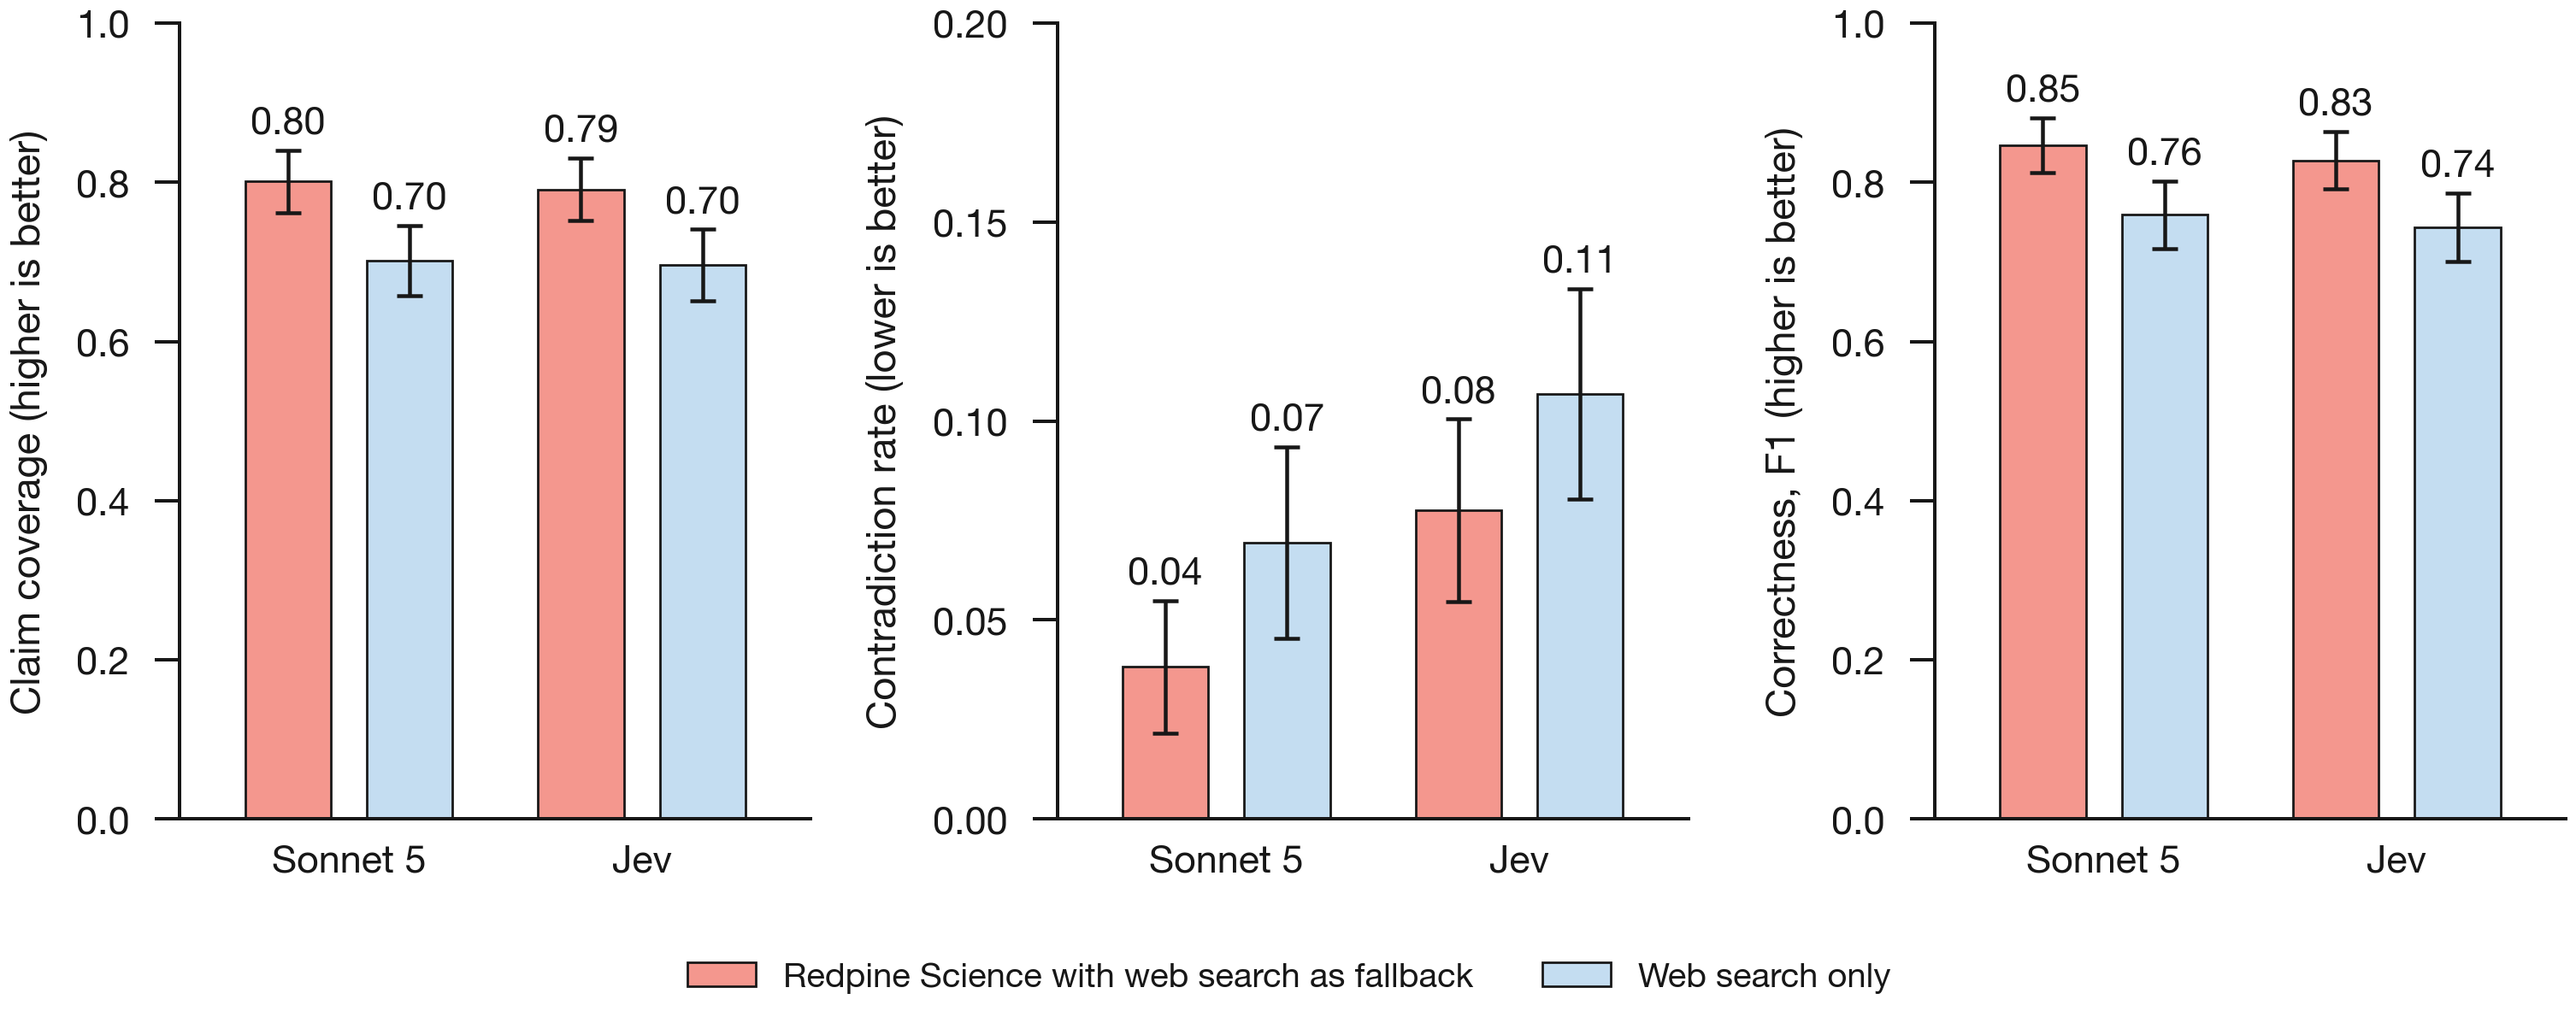
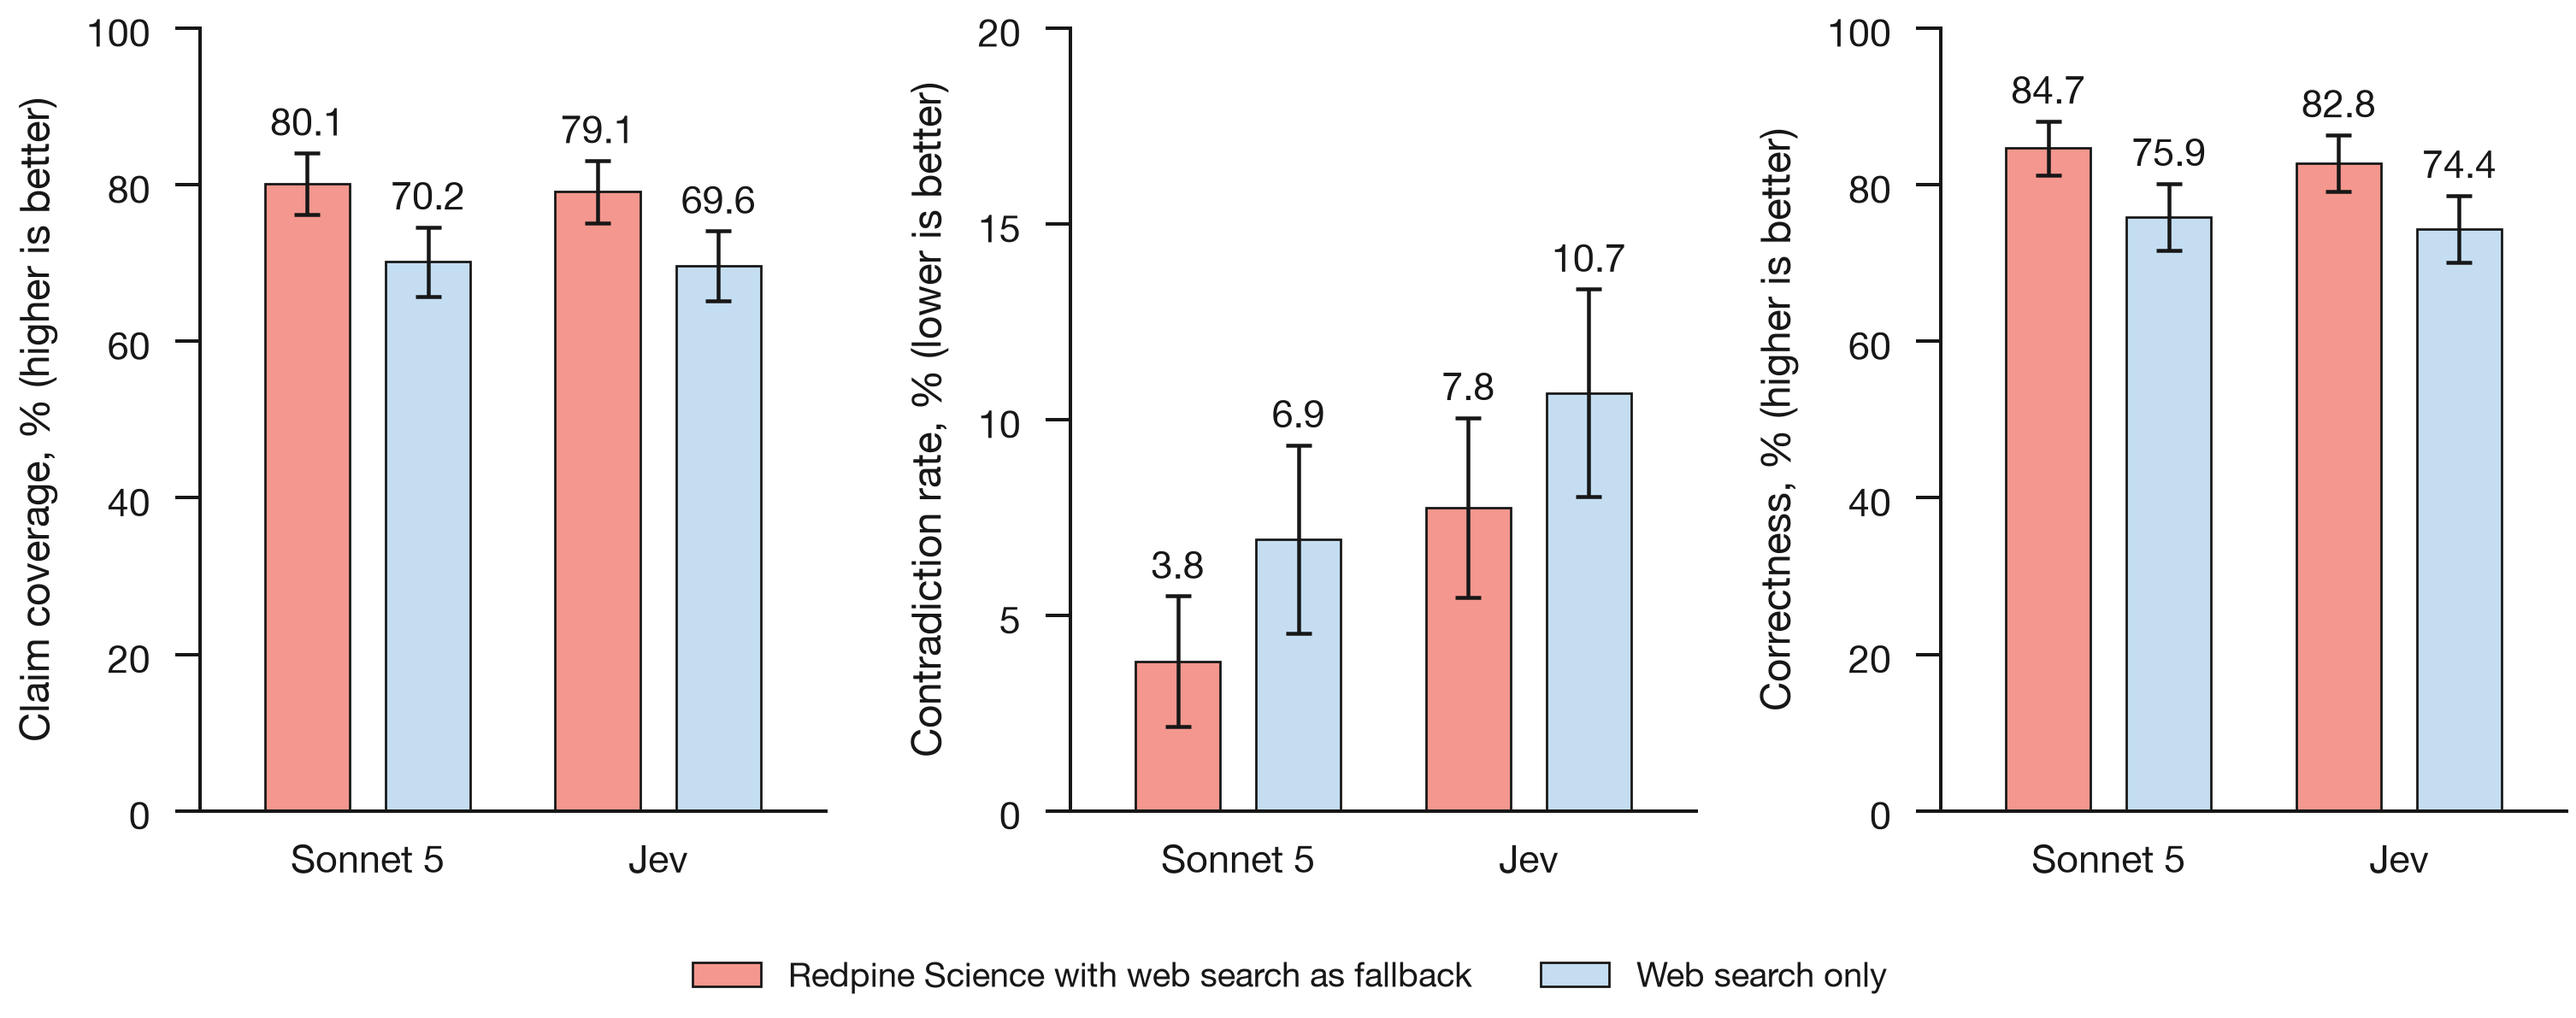
docs(report): report every share in percent and every difference in points
Shares and rates (coverage, contradiction rate, correctness, recall,
precision, expert agreement) are now percentages with one decimal, and
every arm or judge difference is in percentage points, in the text, the
two quadrant-two tables and the captions. The gold thresholds in the
quadrant-two method follow the same rule. Quantities that are not
shares (nDCG, DCG@5, alpha, kappa, ICC, mean relevance, p-values) and
the correctness definition with its worked example keep their scale.
The quadrant-two figure is regenerated on a percent axis so its labels
match the text. Also merges the three short judging-panel paragraphs
in the quadrant-four method into one.

diff --git a/main.tex b/main.tex
@@ -265,9 +265,9 @@ the paper after repair, and the mechanical check all pass.
 The last step measures the gold before an expert sees it. Three test answers are
 generated for each question: one that read the paper, one that read a different but
 valid source, and one with no retrieval. Each is graded twice for how much of the gold
-it covers, a coverage score from 0 to 1, and the three scores travel with the question.
-A gold on which the paper-informed answer scores below 0.75, or the retrieval-free
-answer 0.5 or above, is flagged for the expert: the first rewards one paper's phrasing,
+it covers, a coverage score in percent, and the three scores travel with the question.
+A gold on which the paper-informed answer scores below 75\%, or the retrieval-free
+answer 50\% or above, is flagged for the expert: the first rewards one paper's phrasing,
 the second can be satisfied from memory. The same three answers later guard every edit
 to a gold.
 
@@ -277,8 +277,9 @@ it. For each question the expert marked good, edit or bad, could rewrite the que
 and could comment. A suggested rewrite is applied once a check confirms that the gold still
 answers it. A change to a gold is accepted only if the three test answers, regraded
 against the new gold, keep their coverage scores: the paper-informed answer's score stays
-at or above 0.85 and drops by at most 0.05, the other-source answer's score drops by at
-most 0.05, the retrieval-free answer's score rises by at most 0.05, and no test answer
+at or above 85\% and drops by at most 5 points, the other-source answer's score drops by
+at most 5 points, the retrieval-free answer's score rises by at most 5 points, and no
+test answer
 newly contradicts the gold. When either check fails, the
 generated version stays and the failed edit is recorded with the reason: a rewrite that
 widens the question past what the gold answers, or a gold edit that lets the
@@ -311,7 +312,8 @@ and contradicts $c$, coverage is $C = s/n$, the contradiction rate is $K = c/n$,
 %
 the harmonic mean of the share of claims stated and the share not contradicted. An
 answer that states every claim and contradicts none scores 1; one that states half the
-claims and contradicts the rest scores 0.5. The bottom panel of Figure~\ref{fig:q2-example}
+claims and contradicts the rest scores 0.5. Correctness is reported as a percentage
+below. The bottom panel of Figure~\ref{fig:q2-example}
 shows the judge's verdicts on one answer and the scores they give. The judge reads the
 answer as written, citations included. Scores that compare an answer
 with its own retrieved text (groundedness, faithfulness, contextual recall and relevancy,
@@ -438,20 +440,15 @@ reading. URL, DOI and publication date are removed from every result before a ju
 reads it, since a database record and a scraped web page format these differently
 enough to identify the source.
 
-Three PhD-level domain experts are the judges. Each scores a batch of 30 subspecialty
-questions that require domain knowledge to evaluate the results, not only to answer:
-one batch is mostly neurology, with a handful of adjacent critical care, immunology,
-microbiology, and pharmacology questions; one is entirely cardiology; one is entirely
-rheumatology. These three batches do not overlap and each is judged by a single
-panelist, for breadth across subspecialties.
-
-A second pool of 25 questions is judged by two panelists against the same
-blinded result set, to measure inter-rater agreement. Per-item scores are averaged
-across the two judges before pooling, so a question in this pool contributes one data
-point, not two.
-
-The full panel is 115 questions: 90 domain-specific, 30 from each of the three
-subspecialists, plus the 25 from this second pool.
+Three PhD-level domain experts are the judges, and the panel holds 115 questions in
+two pools. The first pool is 90 subspecialty questions that require domain knowledge
+to evaluate the results, not only to answer, in three non-overlapping batches of 30,
+each judged by one panelist for breadth across subspecialties: one batch is mostly
+neurology, with a handful of adjacent critical care, immunology, microbiology and
+pharmacology questions; one is entirely cardiology; one is entirely rheumatology. The
+second pool is 25 questions judged by two panelists against the same blinded result
+set, to measure inter-rater agreement; per-item scores are averaged across the two
+judges before pooling, so each of these questions contributes one data point, not two.
 
 \section{Results}\label{sec:results}
 
@@ -476,7 +473,7 @@ This quadrant tests whether access to Redpine Science changes an agent's answer
 accuracy on a public, claim-verification benchmark. Figure~\ref{fig:scifact-arms}
 shows the result. An agent with Redpine Science answers
 94.4\% of the claims correctly, against 87.6\% for the same agent with no
-retrieval: 6.8 percentage points more, or 7.8\% more claims right, averaged over
+retrieval: 6.8 points more, or 7.8\% more claims right, averaged over
 the five runs and positive in each of them. Web search scores 93.1\%, and Redpine
 Science with web search as fallback 93.9\%.
 
@@ -504,7 +501,7 @@ memory, and quadrants three and four measure the retrieved papers directly.
 \end{figure}
 
 \begin{table}[htbp]
-\caption{Claim coverage difference, Redpine Science with web search as fallback minus web search
+\caption{Claim coverage difference in percentage points, Redpine Science with web search as fallback minus web search
 only, by track, by access class of the source paper, and by judge. Paired 95\% t intervals;
 n is the number of questions.}
 \label{tab:quadrant-two-tracks}
@@ -512,13 +509,13 @@ n is the number of questions.}
 \toprule
 \textbf{Track} & \textbf{n} & \textbf{Sonnet 5} & \textbf{Jev} \\
 \midrule
-Cardiology      & 79 & $+0.075$ $[+0.014, +0.136]$ & $+0.052$ $[-0.001, +0.106]$ \\
-Neuroimmunology & 60 & $+0.125$ $[+0.054, +0.196]$ & $+0.114$ $[+0.042, +0.186]$ \\
-Sepsis          & 20 & $+0.188$ $[+0.002, +0.373]$ & $+0.221$ $[+0.073, +0.369]$ \\
-Immunology      & 20 & $+0.033$ $[-0.072, +0.139]$ & $+0.081$ $[-0.022, +0.184]$ \\
+Cardiology      & 79 & $+7.5$ $[+1.4, +13.6]$ & $+5.2$ $[-0.1, +10.6]$ \\
+Neuroimmunology & 60 & $+12.5$ $[+5.4, +19.6]$ & $+11.4$ $[+4.2, +18.6]$ \\
+Sepsis          & 20 & $+18.8$ $[+0.2, +37.3]$ & $+22.1$ $[+7.3, +36.9]$ \\
+Immunology      & 20 & $+3.3$ $[-7.2, +13.9]$ & $+8.1$ $[-2.2, +18.4]$ \\
 \midrule
-Open access     & 105 & $+0.067$ $[+0.017, +0.116]$ & $+0.051$ $[+0.003, +0.099]$ \\
-Paywalled       & 74 & $+0.146$ $[+0.072, +0.221]$ & $+0.158$ $[+0.094, +0.221]$ \\
+Open access     & 105 & $+6.7$ $[+1.7, +11.6]$ & $+5.1$ $[+0.3, +9.9]$ \\
+Paywalled       & 74 & $+14.6$ $[+7.2, +22.1]$ & $+15.8$ $[+9.4, +22.1]$ \\
 \bottomrule
 \end{tabular}
 \end{table}
@@ -528,20 +525,20 @@ an agent with web search alone against the same agent with Redpine Science added
 Figure~\ref{fig:quadrant2-metrics} shows the three metrics of
 Section~\ref{sec:method-quadrant-two} by arm. Under the primary judge, the arm
 with Redpine Science states 80.1\% of the gold claims against 70.2\% for web
-search alone, a paired difference of $+0.100$ (95\% interval $+0.058$ to $+0.142$,
+search alone, a paired difference of $+10.0$ points (95\% interval $+5.8$ to $+14.2$,
 paired t $p = 6\times10^{-6}$, n = 179). It contradicts fewer claims, 3.8\% against
-6.9\%, a difference of $-0.031$ ($-0.055$ to $-0.008$, $p = 0.01$). Correctness,
-the harmonic mean of the two, is 0.847 against 0.759, a difference of $+0.088$ ($+0.049$ to $+0.127$,
+6.9\%, a difference of $-3.1$ points ($-5.5$ to $-0.8$, $p = 0.01$). Correctness,
+the harmonic mean of the two, is 84.7\% against 75.9\%, a difference of $+8.8$ points ($+4.9$ to $+12.7$,
 $p = 2\times10^{-5}$). Per question, the Redpine Science arm covers more claims on 62
 questions, fewer on 22, and the same number on 95. Half the questions are answered
 equally well by both arms; the gain sits in the other half.
 
 Jev gives the same picture. Under Jev the coverage difference is
-$+0.095$ ($+0.056$ to $+0.134$, $p = 3\times10^{-6}$), the contradiction difference
-$-0.029$ ($-0.056$ to $-0.002$, $p = 0.03$) and the correctness difference $+0.084$
-($+0.048$ to $+0.121$, $p = 1\times10^{-5}$), with 62 questions won, 21 lost and 96 tied.
+$+9.5$ points ($+5.6$ to $+13.4$, $p = 3\times10^{-6}$), the contradiction difference
+$-2.9$ points ($-5.6$ to $-0.2$, $p = 0.03$) and the correctness difference $+8.4$ points
+($+4.8$ to $+12.1$, $p = 1\times10^{-5}$), with 62 questions won, 21 lost and 96 tied.
 Paired per question, the coverage differences under Jev and under Sonnet 5 differ by
-0.002 on a standard error of 0.015. Jev scores both arms lower on the absolute scale,
+0.2 points on a standard error of 1.5 points. Jev scores both arms lower on the absolute scale,
 mostly because it labels about twice as many claims contradicted (7.8\% against
 3.8\% on the Redpine Science arm), but the gap between the arms does not move.
 Contradiction is rare under either judge: at most 10.7\% of claims on either arm.
@@ -557,12 +554,12 @@ under at least one judge.
 
 The same table splits the difference by the access class of the source paper. On the
 74 questions whose paper is paywalled, the Redpine Science arm states 84.9\% of the
-gold claims against 70.3\% for web search alone, a difference of $+0.146$ ($+0.072$ to
-$+0.221$, $p = 2\times10^{-4}$, n = 74). On the 105 questions whose paper is open access
-the difference is $+0.067$ ($+0.017$ to $+0.116$, $p = 0.009$, n = 105), from 76.7\%
+gold claims against 70.3\% for web search alone, a difference of $+14.6$ points ($+7.2$ to
+$+22.1$, $p = 2\times10^{-4}$, n = 74). On the 105 questions whose paper is open access
+the difference is $+6.7$ points ($+1.7$ to $+11.6$, $p = 0.009$, n = 105), from 76.7\%
 against 70.1\%. Web search covers the two classes equally; the Redpine Science arm gains
-most where web search cannot read the paper. Jev gives the same split, $+0.158$ on the
-paywalled questions and $+0.051$ on the open-access ones. These are the judge's margins;
+most where web search cannot read the paper. Jev gives the same split, $+15.8$ points on the
+paywalled questions and $+5.1$ on the open-access ones. These are the judge's margins;
 the expert check follows.
 
 \begin{table}[htbp]
@@ -575,8 +572,8 @@ Intervals are 95\%: jackknife for alpha, bootstrap for the intraclass correlatio
 \toprule
  & \textbf{Sonnet 5} & \textbf{Jev} \\
 \midrule
-Agreement with the expert majority, 237 claim units & 0.86 & 0.82 \\
-Alt-test winning rate, $\epsilon = 0.2$ & 1.0 & 1.0 \\
+Agreement with the expert majority, 237 claim units & 86\% & 82\% \\
+Alt-test winning rate, $\epsilon = 0.2$ & 100\% & 100\% \\
 Mean Cohen's $\kappa$ against each expert (expert against expert: 0.53) & 0.58 & 0.54 \\
 ICC(2,1) against the leave-one-out consensus & 0.85 [0.76, 0.91] & 0.81 [0.71, 0.89] \\
 \midrule
@@ -606,13 +603,13 @@ own ceiling of 0.71; Jev's is 0.81. Sonnet 5 is ahead of Jev on every measure by
 small margin.
 
 The expert labels point the same way as the judge's. On the 22-question random core,
-where all experts labelled both arms, the expert-only coverage gain is $+0.251$ (95\%
-interval $+0.112$ to $+0.390$); that draw over-represents questions on which the judge saw
-a large gap ($+0.299$ against $+0.100$ on the frame), so the estimate for all 179 questions
-is prediction-powered inference with the design's sampling weights, $+0.156$ ($-0.024$ to
-$+0.336$), next to the judge's $+0.100$. Its interval is wide because the design placed only
+where all experts labelled both arms, the expert-only coverage gain is $+25.1$ points
+(95\% interval $+11.2$ to $+39.0$); that draw over-represents questions on which the judge saw
+a large gap ($+29.9$ against $+10.0$ points on the frame), so the estimate for all 179 questions
+is prediction-powered inference with the design's sampling weights, $+15.6$ points ($-2.4$ to
+$+33.6$), next to the judge's $+10.0$. Its interval is wide because the design placed only
 two labelled questions in the 88-question stratum where the judge saw no gap. The
-contradiction rate on the core moves the same way, $-0.043$ ($-0.140$ to $+0.054$). The
+contradiction rate on the core moves the same way, $-4.3$ points ($-14.0$ to $+5.4$). The
 expert labels agree with the judge on the direction of the gain; its size rests on the
 judge's 179-question estimate.
 
@@ -717,7 +714,7 @@ effects of retrieval and generation.
 
 On the expert-validated question set, an agent with Redpine Science states 80.1\% of
 the required claims against 70.2\% for an agent restricted to web search, a gain of
-10 points in claim coverage under the primary judge, expert labels on a blinded sample point the same way. On ScholarQABench
+10.0 points in claim coverage under the primary judge, expert labels on a blinded sample point the same way. On ScholarQABench
 SciFact, the agent answers 94.4\% of claims correctly with Redpine Science against
 87.6\% with no retrieval and 93.1\% with web search; every arm scores above 87\%, so a
 public benchmark of this kind leaves little room to measure retrieval, which is what the

diff --git a/figures/fig_quadrant2_metrics.py b/figures/fig_quadrant2_metrics.py
@@ -78,9 +78,9 @@ ARM_LABELS = {"web": "Web search only",
 LOCAL_COLORS = {"redpine_first": CRIMSON, "web": SKY_BLUE}
 
 METRICS = [
-    ("claim_coverage", "Claim coverage (higher is better)", (0, 1.0), [0, 0.2, 0.4, 0.6, 0.8, 1.0]),
-    ("contradiction_rate", "Contradiction rate (lower is better)", (0, 0.2), [0, 0.05, 0.10, 0.15, 0.20]),
-    ("correctness", "Correctness, F1 (higher is better)", (0, 1.0), [0, 0.2, 0.4, 0.6, 0.8, 1.0]),
+    ("claim_coverage", "Claim coverage, % (higher is better)", (0, 100), [0, 20, 40, 60, 80, 100]),
+    ("contradiction_rate", "Contradiction rate, % (lower is better)", (0, 20), [0, 5, 10, 15, 20]),
+    ("correctness", "Correctness, % (higher is better)", (0, 100), [0, 20, 40, 60, 80, 100]),
 ]
 
 BAR_WIDTH = 0.38
@@ -94,6 +94,7 @@ def _draw_panel(ax, metric, ylabel, ylim, yticks):
     for j, judge in enumerate(JUDGES):
         for k, arm in enumerate(ARMS):
             mean, half = DATA[judge][metric][arm]
+            mean, half = mean * 100, half * 100   # DATA holds proportions; the report is in percent
             xs.append(j * GROUP_GAP + (k - 0.5) * (BAR_WIDTH + PAIR_GAP))
             means.append(mean)
             errors.append(half)
@@ -106,7 +107,7 @@ def _draw_panel(ax, metric, ylabel, ylim, yticks):
     # Value above each bar, clear of its error bar.
     for bar, mean, half in zip(bars, means, errors):
         ax.text(bar.get_x() + bar.get_width() / 2, mean + half + 0.012 * ylim[1],
-                f"{mean:.2f}", ha="center", va="bottom", color=DARK_GREY,
+                f"{mean:.1f}", ha="center", va="bottom", color=DARK_GREY,
                 fontsize=BASE_PT * TYPE_SCALE)
     # A bar chart is read by comparing heights, so every panel starts at zero.
     ax.set_ylim(*ylim)
